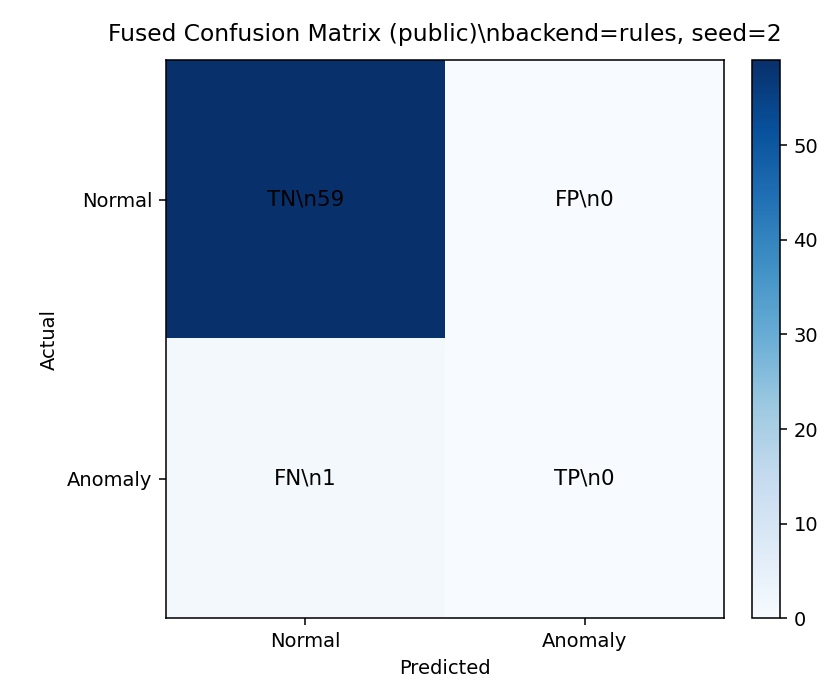
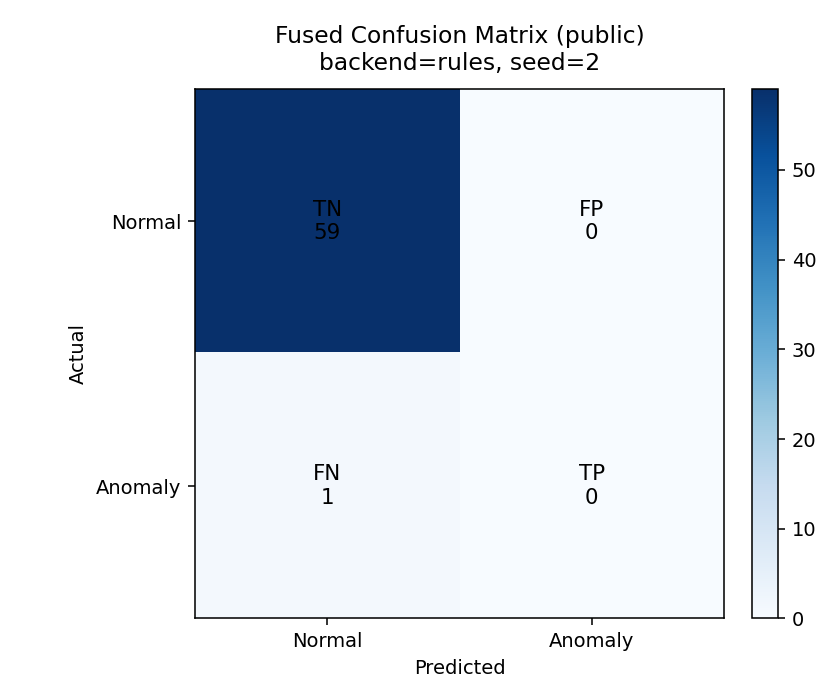
Fix confusion matrix newline rendering in title and cell labels

diff --git a/src/iot_anomaly_guidance.py b/src/iot_anomaly_guidance.py
@@ -583,7 +583,7 @@ def plot_fused_confusion_matrix(
 
     fig, ax = plt.subplots(figsize=(6, 5))
     im = ax.imshow(cm, cmap="Blues")
-    ax.set_title(f"Fused Confusion Matrix ({data_source})\\nbackend={backend}, seed={seed}", pad=10)
+    ax.set_title(f"Fused Confusion Matrix ({data_source})\nbackend={backend}, seed={seed}", pad=10)
     ax.set_xlabel("Predicted")
     ax.set_ylabel("Actual")
     ax.set_xticks([0, 1], ["Normal", "Anomaly"])
@@ -591,7 +591,7 @@ def plot_fused_confusion_matrix(
 
     for i in range(2):
         for j in range(2):
-            ax.text(j, i, f"{labels[i][j]}\\n{cm[i, j]}", ha="center", va="center", color="black", fontsize=11)
+            ax.text(j, i, f"{labels[i][j]}\n{cm[i, j]}", ha="center", va="center", color="black", fontsize=11)
 
     fig.colorbar(im, ax=ax, fraction=0.046, pad=0.04)
     fig.tight_layout()
